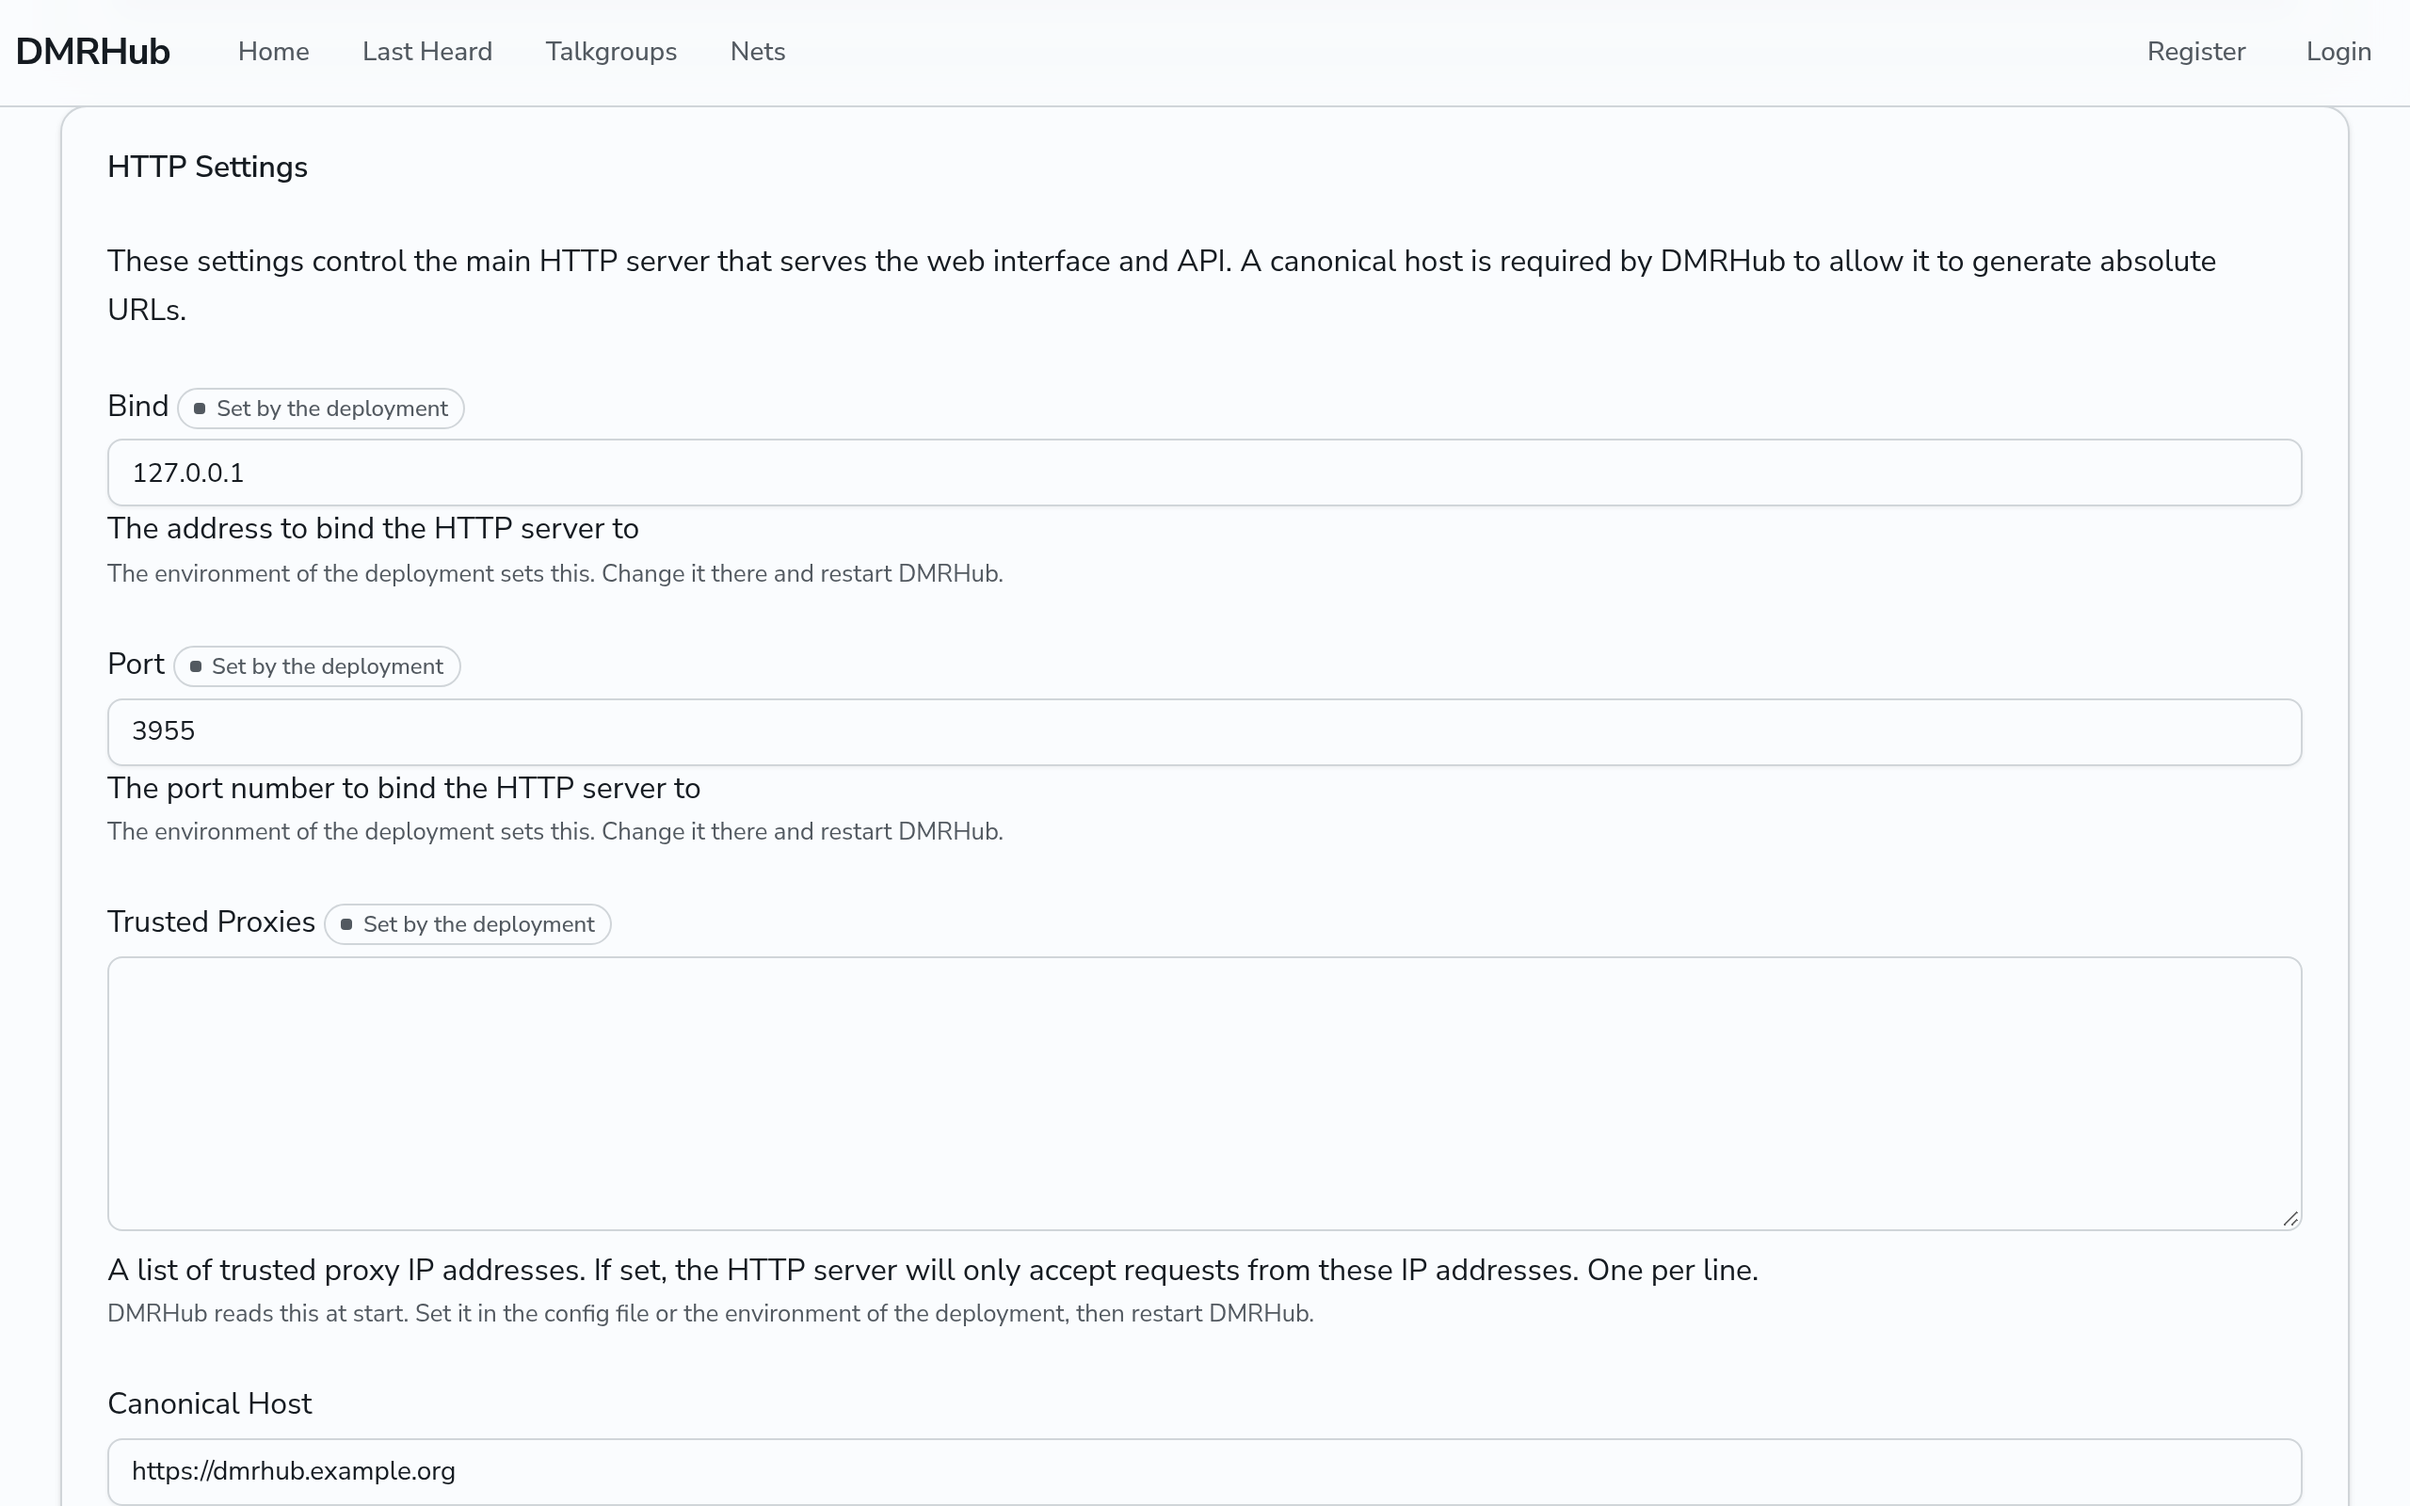
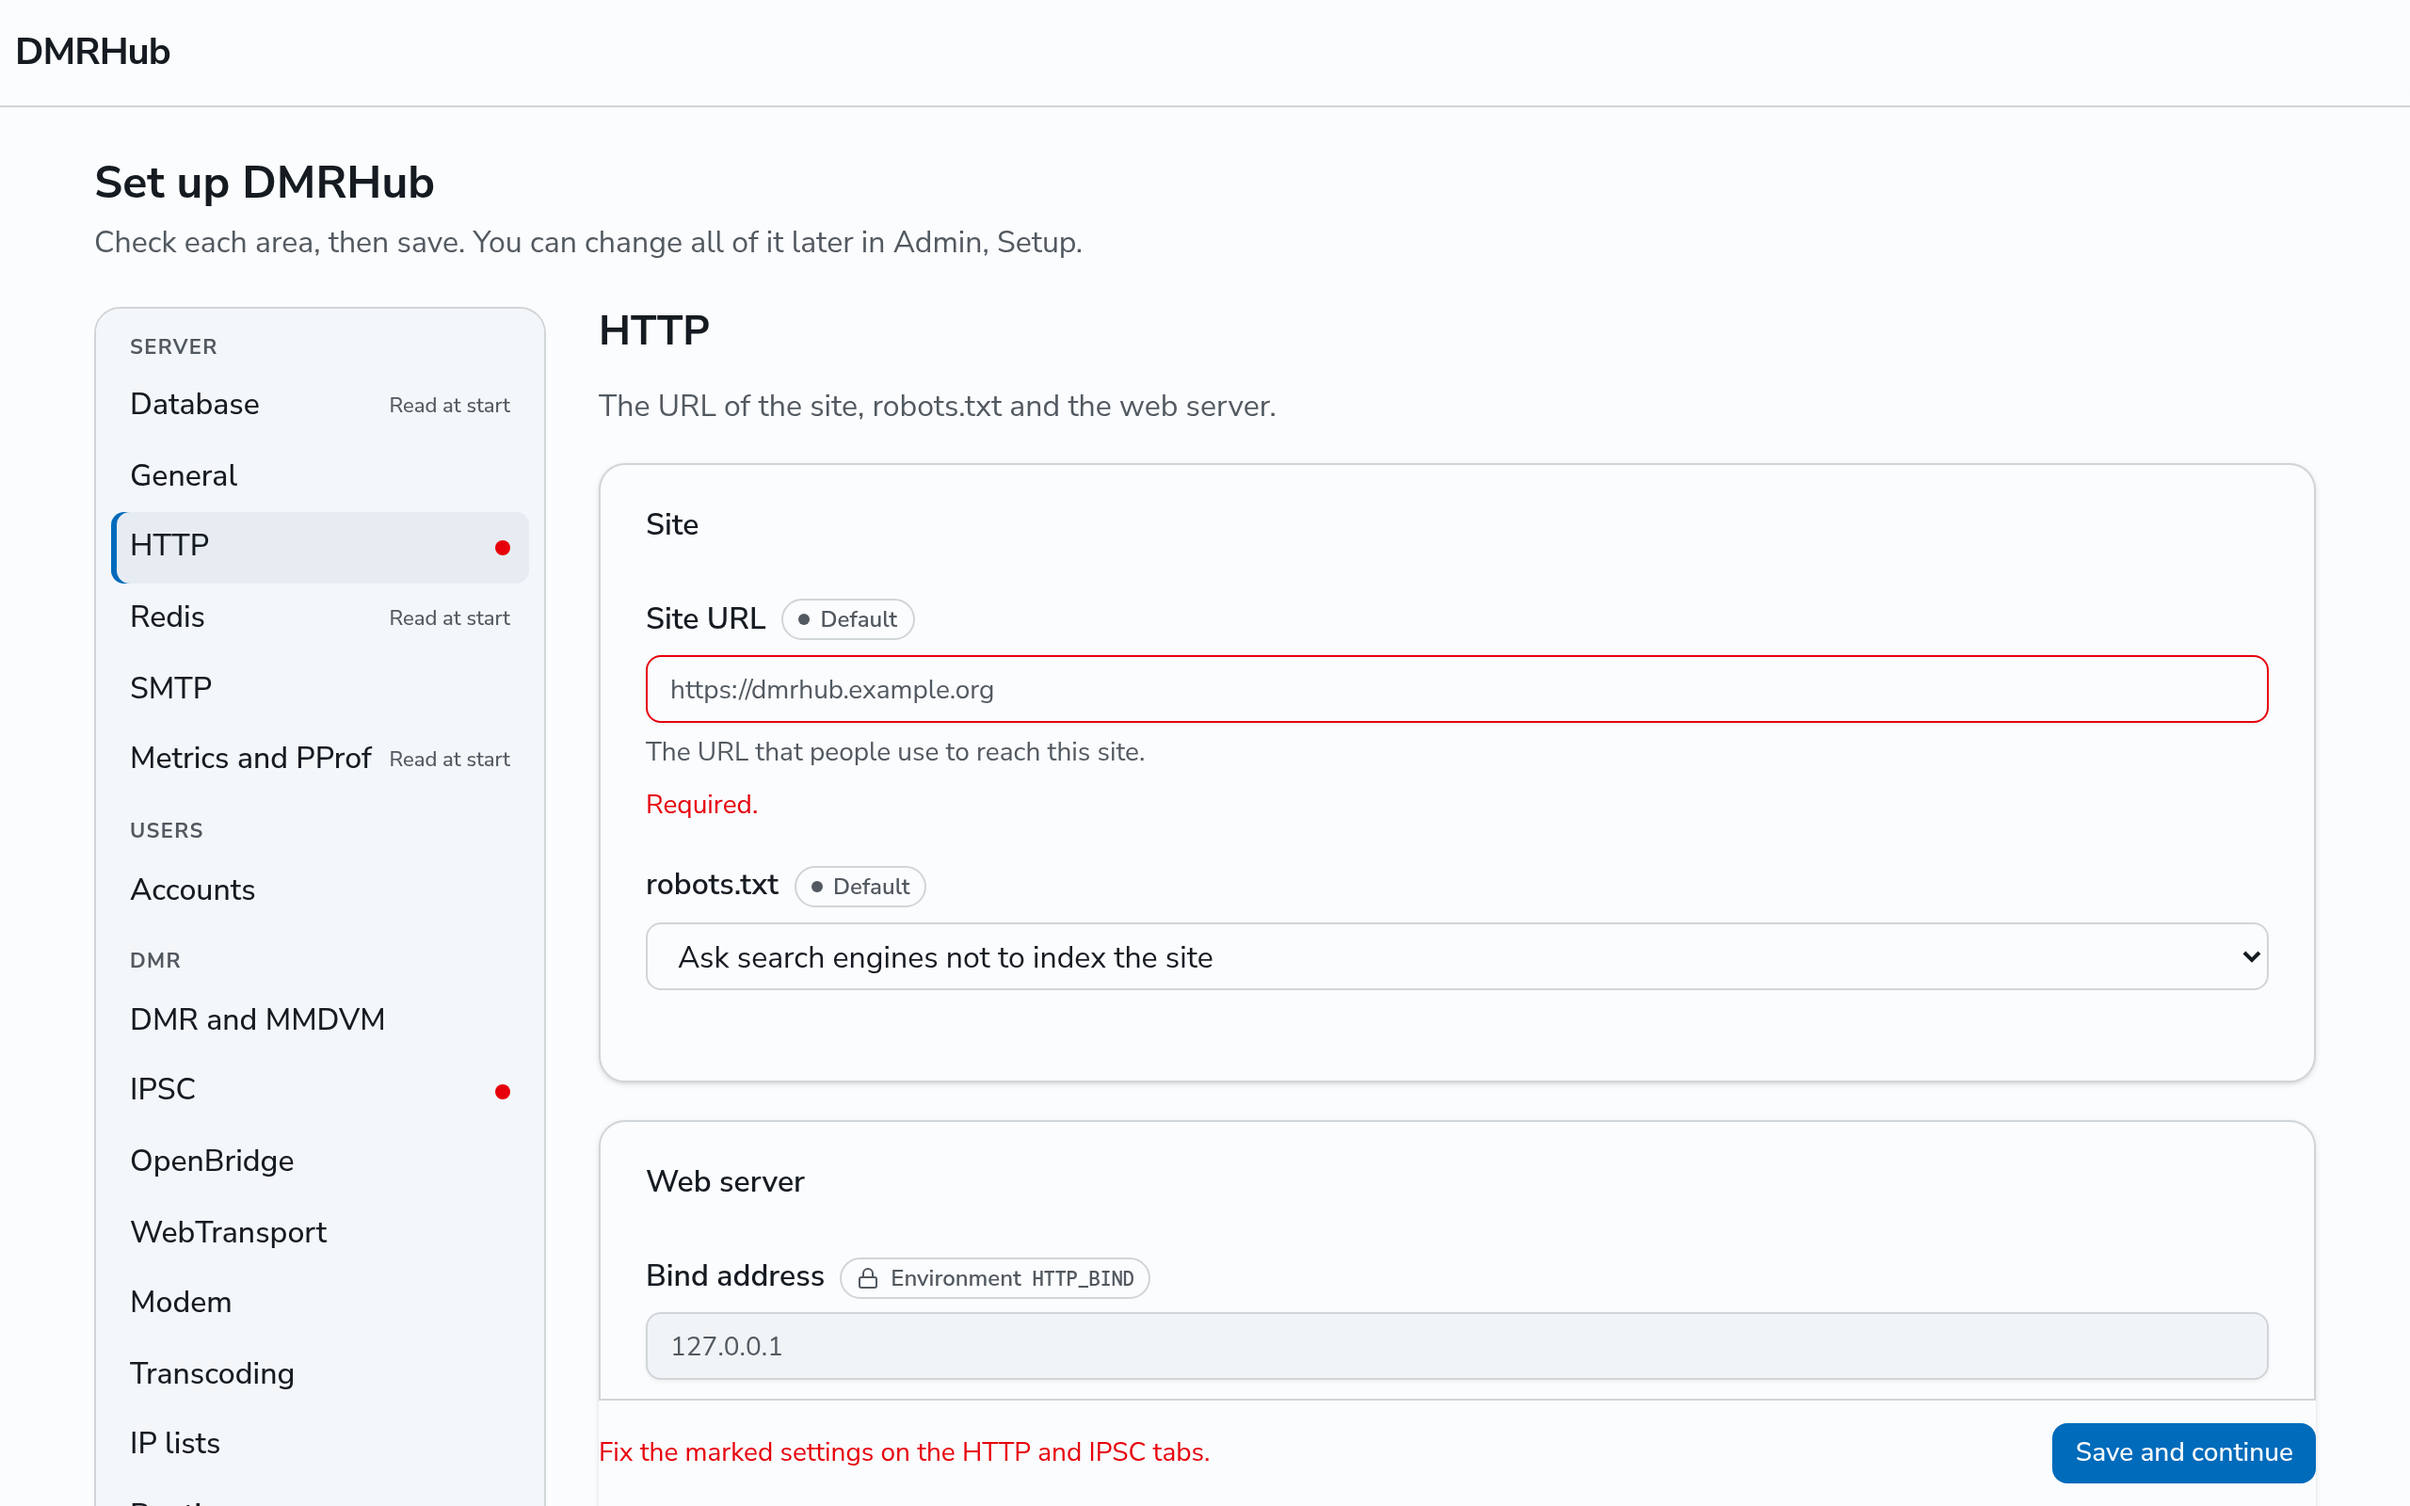
docs: show the setup wizard on the Setup menu

diff --git a/hack/screenshots/shots.go b/hack/screenshots/shots.go
@@ -22,10 +22,12 @@ package main
 import (
 	"context"
 	"encoding/json"
+	"errors"
 	"fmt"
 	"log/slog"
 	"maps"
 	"net/http"
+	"os"
 	"path/filepath"
 	"regexp"
 	"slices"
@@ -440,7 +442,13 @@ func (r *runner) clickCSS(ctx context.Context, css string) error {
 	return r.b.eval(ctx, "document.querySelector("+string(q)+").click()", nil)
 }
 
+// runSetup takes the shots of the setup wizard. A directory in the place of
+// the default SQLite file keeps DMRHub from its database, so the wizard
+// starts with the database step.
 func runSetup(ctx context.Context, o options, l *shotList, c *clock) error {
+	if err := os.Mkdir(filepath.Join(o.work, "DMRHub.db"), 0o700); err != nil && !errors.Is(err, os.ErrExist) {
+		return fmt.Errorf("could not block the default database: %w", err)
+	}
 	start := l.Start.Add(-time.Hour)
 	if err := c.set(start); err != nil {
 		return err

diff --git a/doc/admin/install.md b/doc/admin/install.md
@@ -27,15 +27,19 @@ DMRHub starts the setup wizard instead of the network when its configuration is 
    The wizard listens on `http.bind` and `http.port`, the same address as the web interface. DMRHub also tries to open a web browser on the server. On a server without a desktop, or in a container, this fails with a `Failed to open browser` error in the log. That error is normal.
 
 2. Open `http://<server>:<http.port>/setup` in a browser, such as `http://<server>:3005/setup`. You do not need anything from the log.
-3. Fill in the settings and click **Save**. DMRHub checks them and saves them in the database (see [Setup settings](configuration.md#setup-settings)). When no deployment sets `secret` and `password-salt`, DMRHub makes them at the first start and keeps them in the database. When the deployment sets every needed setting, the wizard opens on the next page.
+3. Fill in the settings on the tabs of the wizard and click **Save and continue**. The wizard has the same tabs as **Admin**, **Setup**, with **Database** first. A red dot marks a tab with a value that is missing or not valid. DMRHub checks every tab and saves them in the database (see [Setup settings](configuration.md#setup-settings)). When no deployment sets `secret` and `password-salt`, DMRHub makes them at the first start and keeps them in the database. When the deployment sets every needed setting, the wizard opens on the next page.
 4. Make the first admin user on the **Create the first admin** page. DMRHub checks the DMR ID and callsign against RadioID.net when those checks are on (see [RadioID checks](users.md#radioid-checks)). This user is the super admin (see [Admins and the super admin](overview.md#admins-and-the-super-admin)).
 5. DMRHub stops the wizard and starts the network in the same process, with the new settings. Log in at `<siteurl>/login`.
 
 The wizard is the only way to make the first admin user. It starts while no admin exists, also when the configuration is complete. The database lets only one visitor make the first admin, also when several replicas run the wizard at once. A visitor who comes second gets the message that the admin exists, and can log in when that admin gives them an account.
 
+When DMRHub cannot reach its database, the wizard shows `DMRHub cannot reach its database.` with the error, and only the **Database** tab can change. While **SQLite** is the driver, the tab shows no host, port, username or password. Click **Test the connection** to try the settings on the tab: it shows `Connected.` or why DMRHub cannot reach the database, and it saves nothing and makes no SQLite file. Click **Save and continue** to use the settings. DMRHub reaches the database, migrates it, and keeps the setting in `dmrhub-database.json` in its working directory, readable only by the user that runs DMRHub. The other tabs then open. After the database step, the **Database** tab shows `Connected.` and cannot change, as DMRHub reads it only at start.
+
+![The Database tab of the setup wizard after Test the connection reached a SQLite file](../Screenshots/setup-wizard-database.png)
+
 The wizard changes settings only on a new DMRHub. When an admin exists, it shows `DMRHub has an admin, so the setup wizard cannot change the settings.` When DMRHub cannot reach a database setting that the wizard saved before in `dmrhub-database.json`, or a SQLite file that has a user, it shows `A database setting was saved before, so the setup wizard cannot change it.` In both cases, fix the setting in the config file, the environment or the flags, then restart DMRHub. A database setting there wins over `dmrhub-database.json`.
 
-![The setup wizard with the General Settings card at the top](../Screenshots/setup-wizard-general.png)
+![The General tab of the setup wizard](../Screenshots/setup-wizard-general.png)
 
 ![The Create the first admin page, filled in with the DMR ID 3000001 and the callsign N0CALL](../Screenshots/setup-admin-user.png)
 

diff --git a/doc/setup.md b/doc/setup.md
@@ -145,19 +145,19 @@ The unit runs DMRHub as the `dmrhub` user, in `/etc/dmrhub`. DMRHub keeps its da
 The setup wizard has no password. Anyone who opens it can change the settings, and the first visitor to make the admin account becomes the super admin. Do this step before you open port 3005 to the internet, or open the port only to you until you finish. On a DMRHub that has an admin, or that saved a database setting before, the wizard changes no setting and tells you to fix the config and restart DMRHub (see [First start and the setup wizard](admin/install.md#first-start-and-the-setup-wizard)).
 
 1. Open `http://<server>:3005/setup` in a web browser. Use the address of the server for `<server>`, or `localhost` on the server itself. You do not need anything from the log.
-2. In **General Settings**, enter a **Network Name**. Leave **Secret** and **Password Salt** blank: DMRHub made random values for them at the first start and keeps them in the database, so both show `Stored. Leave blank to keep the existing value.`
 
-   ![The General Settings card of the setup wizard, with a network name](Screenshots/setup-wizard-general.png)
+   The wizard shows the same menu of tabs as **Admin**, **Setup**, with **Database** first. A tab with a value that DMRHub needs has a red dot, and the bar at the bottom says where to set it. You can change every setting later in **Admin**, **Setup**.
 
-3. In **DMR Settings**, keep the defaults. The MMDVM server listens on port 62031. Keep **Disable Radio ID validation** off: DMRHub then checks each DMR ID and callsign against the RadioID.net data.
+2. On the **General** tab, enter a **Network name**. Leave **Secret** and **Password salt** as they are: DMRHub made random values for them at the first start and keeps them in the database.
 
-   ![The DMR Settings card of the setup wizard with the default values](Screenshots/setup-wizard-dmr.png)
+   ![The General tab of the setup wizard, with a network name](Screenshots/setup-wizard-general.png)
 
-4. In **HTTP Settings**, set **Canonical Host** to the address that your users open, with `http://` or `https://`, for example `https://dmrhub.example.org`. It is required. Without it, the wizard shows `canonical host is required for generating absolute URLs in the HTTP server`.
+3. Keep the defaults of the **DMR and MMDVM** tab. The MMDVM server listens on port 62031. On the **Accounts** tab, keep the **RadioID checks** on: DMRHub then checks each DMR ID and callsign against the RadioID.net data.
+4. On the **HTTP** tab, set **Site URL** to the address that your users open, with `http://` or `https://`, for example `https://dmrhub.example.org`. It is required. Until you set it, the **HTTP** tab has a red dot, the field shows `Required.`, and the bar at the bottom shows `Set the Site URL on the HTTP tab.`
 
-   ![The HTTP Settings card of the setup wizard with the canonical host set](Screenshots/setup-wizard-http.png)
+   ![The HTTP tab of the setup wizard before the Site URL is set, with a red dot on each tab that needs a value](Screenshots/setup-wizard-http.png)
 
-5. Click **Save** at the bottom of the page. The wizard opens the **Create the first admin** page. A banner above the form says that no admin exists yet, and that whoever makes this account first becomes the admin.
+5. Click **Save and continue** at the bottom of the page. DMRHub checks every tab and saves them all. When a value is not valid, the wizard opens its tab and marks it. Otherwise it opens the **Create the first admin** page. A banner above the form says that no admin exists yet, and that whoever makes this account first becomes the admin.
 6. Enter your **DMR ID**, a **Username**, your **Callsign** and a **Password** two times, then click **Create User**.
 
    ![The Create the first admin page, filled in with the DMR ID 3000001 and the callsign N0CALL](Screenshots/setup-admin-user.png)
